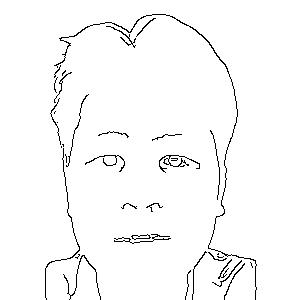
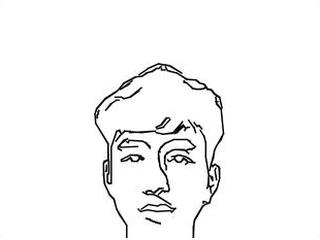
add consine, camera, add new reset

diff --git a/serialWithUI.py b/serialWithUI.py
@@ -14,7 +14,10 @@ from RobotGcodeGen import RobotGcodeGen
 from serial import threaded
 import queue
 import datetime
+import matplotlib.pyplot as plt
 import os
+import warnings
+from EvaluateResult import consine_similarity as validate, extract_frame
 
 ENCODING = 'utf-8'
 IMG_WIDTH = 640
@@ -217,7 +220,6 @@ class SerialCommunication(serial.threaded.LineReader):
         while time.time() - start < timeout:
             if self.stop_done:
                 return True
-            time.sleep(0.00001)
         return False
 
     def wait_for_receive_ok(self, timeout=2):
@@ -228,7 +230,6 @@ class SerialCommunication(serial.threaded.LineReader):
             with self.ok_lock:
                 if self.ok_received:
                     return True
-            time.sleep(0.00001)
         return False
 
     def get_done_count(self, max_count=36, timeout=1.0):
@@ -248,9 +249,11 @@ class SerialCommunication(serial.threaded.LineReader):
 def find_uart_port():
     ports = list_ports.comports()
     for port, desc, hwid in ports:
-        if "ttyACM" in port or "USB" in port or "ACM" in port or "COM" in port:
+        if "ttyACM" in port or "USB" in port or "ACM" in port:
+            # or "COM" in port:
             return port
     return None
+
 def send_uart_command(protocol, cmd, wait_ok=True, retries=3):
     for _ in range(retries):
         protocol.ok_received = False
@@ -268,8 +271,8 @@ def send_uart_command(protocol, cmd, wait_ok=True, retries=3):
 
 def reset_system(protocol):
     send_uart_command(protocol, "$X")
-    send_uart_command(protocol, "G28")
-    send_uart_command(protocol, "F2700")
+    send_uart_command(protocol, "F2000")
+    send_uart_command(protocol, "G1 X0 Y0 Z0 A0 B0")
     send_uart_command(protocol, "G92 X0 Y0 Z0 A0 B0")
     protocol.get_done_count()
 
@@ -338,6 +341,13 @@ def receive_gcode_response(protocol, total_cmds, shared_state, queue_lock, recei
 
 class App:
     def __init__(self, root):
+        self.gcode_lines = None
+        self.uart_log_box = None
+        self.manual_entry = None
+        self.gcode_entry = None
+        self.left_img_label = None
+        self.right_img_label = None
+        self.source_var = None
         self.root = root
         self.root.title("📟 G-code Control Panel")
         self.protocol = None
@@ -357,7 +367,7 @@ class App:
 
         self.build_gui()
         self.start_serial()
-        self.start_camera()
+        self.start_camera(1)
 
     def build_gui(self):
         img_frame = ttk.Frame(self.root)
@@ -371,7 +381,7 @@ class App:
 
         source_frame = ttk.Frame(self.root)
         source_frame.pack(pady=5)
-        self.source_var = tk.StringVar(value="in_camera")
+        self.source_var = tk.StringVar(value="ex_camera")
         ttk.Label(source_frame, text="Source:").pack(side="left")
         ttk.Radiobutton(source_frame, text="Camera Laptop", variable=self.source_var, value="in_camera", command=self.switch_source).pack(side="left")
         ttk.Radiobutton(source_frame, text="Camera ngoài", variable=self.source_var, value="ex_camera", command=self.switch_source).pack(side="left")
@@ -466,6 +476,39 @@ class App:
                 send_uart_command(self.protocol, "$X", False)
         threading.Thread(target=stop_thread, daemon=True).start()
 
+    def validate_result_window(self):
+            # if self.source_var == "ex_camera":
+            input_path = f"input_capture_excam/{global_var.index_capture_image}.jpg"
+            image_name = f"{global_var.index_capture_image}.jpg"
+            extract_frame.preprocessing(image_name)
+            original_image_path = f"Image2Gcode/output_image/{global_var.index_capture_image}_binary.jpg"
+            image_path = f"EvaluateResult/output_image/{global_var.index_capture_image}.jpg"
+            feature_similarity = validate.calculate_feature_similarity(original_image_path, image_path)
+            print(f"Feature-based similarity (Cosine similarity) with {image_path}: {feature_similarity}")
+            # Đọc ảnh để hiển thị
+            img_original = cv2.imread(original_image_path)
+            img_result = cv2.imread(image_path)
+
+            # Chuyển BGR -> RGB để hiển thị đúng màu với matplotlib
+            img_original = cv2.cvtColor(img_original, cv2.COLOR_BGR2RGB)
+            img_result = cv2.cvtColor(img_result, cv2.COLOR_BGR2RGB)
+
+            # Hiển thị ảnh và similarity
+            plt.figure(figsize=(10, 4))
+
+            plt.subplot(1, 2, 1)
+            plt.imshow(img_original)
+            plt.title("Original Binary Image")
+            plt.axis("off")
+
+            plt.subplot(1, 2, 2)
+            plt.imshow(img_result)
+            plt.title(f"Result Image\nSimilarity: {feature_similarity:.4f}")
+            plt.axis("off")
+
+            plt.tight_layout()
+            plt.show()
+
     def send_gcode_in_background(self):
         self.gcode_lines = read_gcode_file(self.gcode_file_path)
         total_cmds = len(self.gcode_lines)
@@ -508,10 +551,11 @@ class App:
         if self.cap:
             self.cap.release()
         self.cap = cv2.VideoCapture(camera_index)
-        if not self.cap.isOpened():
-            messagebox.showerror("Lỗi", "Không thể mở camera.")
-            self.cap = None
-            return
+        if self.cap.isOpened():
+            # Cấu hình camera để giảm lag
+            self.cap.set(cv2.CAP_PROP_FRAME_WIDTH, 640)
+            self.cap.set(cv2.CAP_PROP_FRAME_HEIGHT, 480)
+            self.cap.set(cv2.CAP_PROP_FPS, 30)
         threading.Thread(target=self.capture_loop, daemon=True).start()
 
     def capture_loop(self):
@@ -527,30 +571,30 @@ class App:
                     image_handle_name = os.path.splitext(global_var.image_name)[0]
                     self.show_mirror = False
                     img_after_processing = (Image.open(f"Image2Gcode/output_image/{image_handle_name}_binary.jpg")
-                           .resize((500, 500)))
+                           .resize((IMG_WIDTH, IMG_HEIGHT)))
                     self.root.after(0, lambda: self.display_image(self.right_img_label, img_after_processing))
                 elif self.show_mirror:
                     self.root.after(0, lambda: self.display_image(self.right_img_label, show_img))
                 elif self.is_simulate_image:
                     image_handle_simulate_name = os.path.splitext(global_var.image_name)[0]
                     image_simulate = (Image.open(f"Image2Gcode/simulate_image/{image_handle_simulate_name}.png")
-                                            .resize((500, 500)))
+                                            .resize((640, 480)))
                     self.root.after(0, lambda: self.display_image(self.right_img_label, image_simulate))
 
             time.sleep(0.0001)
 
     def switch_source(self):
-        if self.source_var.get() == "in_camera":
-            if self.cap:
-                self.cap.release()
-            elif self.cap is None:
-                self.start_camera(camera_index=0)
+        cv2.setLogLevel(0)
+        warnings.filterwarnings("ignore")
+        # Force release camera nếu tồn tại
+        if self.cap:
+            self.cap.release()
+
+        if self.source_var.get() == "ex_camera":
+            self.start_camera(camera_index=1)
             self.show_mirror = True
         else:
-            if self.cap:
-                self.cap.release()
-            elif self.cap is None:
-                self.start_camera(camera_index=1)
+            self.start_camera(camera_index=0)
             self.show_mirror = True
 
     def choose_image(self):
@@ -575,11 +619,6 @@ class App:
         global_var.is_capture = False
         self.is_simulate_image = False
         self.show_mirror = False
-    def validate_result_window(self):
-        self.is_simulate_image = True
-        global_var.is_finish_covert_image = False
-        self.show_mirror = False
-        print("Is pressed")
 
     def capture_frame(self):
         if self.last_frame is not None:
@@ -591,7 +630,10 @@ class App:
             global_var.image_name = ""
             global_var.image_name = f"{global_var.index_capture_image}.jpg"
             img = Image.fromarray(cv2.cvtColor(self.last_frame, cv2.COLOR_BGR2RGB)).resize((IMG_WIDTH, IMG_HEIGHT))
-            img.save(f"Image2Gcode/input_image/capture/{global_var.index_capture_image}.jpg")
+            if self.source_var == "in_camera":
+                img.save(f"Image2Gcode/input_image/capture/{global_var.index_capture_image}.jpg")
+            else:
+                img.save(f"EvaluateResult/input_capture_excam/{global_var.index_capture_image}.jpg")
             self.display_image(self.right_img_label, img)
             self.show_mirror = False
             self.is_simulate_image = False
@@ -641,8 +683,11 @@ class App:
         self.root.destroy()
 
 if __name__ == "__main__":
+    # cv2.utils.logging.setLogLevel(cv2.utils.logging.LOG_LEVEL_ERROR)
+    os.environ['TF_CPP_MIN_LOG_LEVEL'] = '3'  # 0 = all logs, 1 = filter INFO, 2 = filter WARNING, 3 = filter ERROR
+    os.environ['TF_ENABLE_ONEDNN_OPTS'] = '0'
     global_var.image_name = ""
-    global_var.index_capture_image = 0
+    global_var.index_capture_image = 1
     global_var.is_capture = False
     global_var.is_finish_covert_image = False
     global_var.is_choose_image = False

diff --git a/EvaluateResult/extract_frame.py b/EvaluateResult/extract_frame.py
@@ -1,0 +1,79 @@
+import glob
+import cv2
+import numpy as np
+from PIL import Image
+import os
+from EvaluateResult import helper_image
+
+# === Hàm resize giữ nguyên tỉ lệ, thêm padding trắng ===
+def resize_with_padding(image, target_size=(320, 240), fill_color=(255, 255, 255)):
+    original_ratio = image.width / image.height # Tính tỉ lệ gốc của ảnh
+    target_ratio = target_size[0] / target_size[1]  # Tỉ lệ mong muốn (320x240)
+
+    if original_ratio > target_ratio:
+        new_width = target_size[0] # Resize theo chiều ngang
+        new_height = round(new_width / original_ratio)
+    else:
+        new_height = target_size[1]
+        new_width = round(new_height * original_ratio)  # Resize theo chiều dọc
+
+    resized_image = image.resize((new_width, new_height), Image.Resampling.LANCZOS)
+    resized_image_cv = np.array(resized_image)[:, :, ::-1]  # Convert RGB (PIL) to BGR (OpenCV)
+    resized_image_cv_rgb = cv2.cvtColor(resized_image_cv, cv2.COLOR_BGR2RGB)
+    new_image = helper_image.filter_color(resized_image_cv_rgb) # lọc màu
+    # Chuyển lại PIL.Image sau khi xử lý
+    final_image = Image.fromarray(new_image)
+    return final_image
+
+def preprocessing(img_name):
+# # === Xử lý từng ảnh ===
+#     base_dir = os.path.dirname(os.path.abspath(__file__))
+#     img_path = os.path.join(base_dir,img_path)
+    base_dir = os.path.dirname(os.path.abspath(__file__))
+    full_path = os.path.join(base_dir, "input_capture_excam", img_name)
+
+    img = cv2.imread(full_path)
+    if img is None:
+        return None
+    # === Thư mục đầu ra ===
+    output_frame_dir = 'output_frame_w_image' # đầu ra cắt mỗi khung vẫn giữ lại viền
+    output_inside_dir = 'output_image' # đầu ra chỉ còn ảnh bên trong khung
+    os.makedirs(output_frame_dir, exist_ok=True)
+    os.makedirs(output_inside_dir, exist_ok=True)
+
+    gray = cv2.cvtColor(img, cv2.COLOR_BGR2GRAY)
+    _, thresh = cv2.threshold(gray, 200, 255, cv2.THRESH_BINARY_INV)  # Nhị phân hóa để dễ tìm khung
+    contours, _ = cv2.findContours(thresh, cv2.RETR_EXTERNAL, cv2.CHAIN_APPROX_SIMPLE)  # Tìm contour ngoài cùng
+
+    max_area = 0
+    frame_contour = None
+    for cnt in contours:
+        approx = cv2.approxPolyDP(cnt, 0.02 * cv2.arcLength(cnt, True), True)  # Làm mượt contour
+        area = cv2.contourArea(cnt)
+        if len(approx) == 4 and area > max_area:  # Chỉ chọn contour 4 góc có diện tích lớn nhất
+            max_area = area
+            frame_contour = approx
+
+    if frame_contour is not None:
+        x, y, w, h = cv2.boundingRect(frame_contour)  # Lấy tọa độ khung chữ nhật
+
+        # # === output_frame: CÓ KHUNG, không resize ===
+        # frame_crop = img[y:y + h, x:x + w]  # Cắt nguyên khung
+        frame_filename = img_name
+        # frame_path = os.path.join(output_frame_dir, frame_filename)
+        # cv2.imwrite(frame_path, frame_crop)
+
+        # === output_insideFrame: KHÔNG KHUNG, có resize giữ tỉ lệ ===
+        margin = 5  # loại bỏ viền khung
+        inner_crop = img[y + margin:y + h - margin, x + margin:x + w - margin]
+        pil_image = Image.fromarray(cv2.cvtColor(inner_crop, cv2.COLOR_BGR2RGB))  # Chuyển sang RGB
+        resized = resize_with_padding(pil_image, target_size=(320, 240))
+        resized = resized.convert("RGB")
+        inside_path = os.path.join(base_dir,output_inside_dir, frame_filename)
+        resized.save(inside_path, dpi=(300, 300))
+
+        print(f"✅ OK: {os.path.basename(full_path)} → xử lý thành công")
+        return None
+    else:
+        print(f"❌ Không tìm thấy khung trong ảnh: {os.path.basename(full_path)}")
+        return None

diff --git a/EvaluateResult/consine_similarity.py b/EvaluateResult/consine_similarity.py
@@ -1,0 +1,56 @@
+# # # Import necessary libraries
+import cv2
+import numpy as np
+from tensorflow.keras.applications.vgg16 import VGG16, preprocess_input
+from tensorflow.keras.preprocessing import image
+from tensorflow.keras.models import Model
+from scipy.spatial.distance import cosine
+# Function to extract features using VGG16 and calculate cosine similarity
+def calculate_feature_similarity(image_path1, image_path2):
+    # Load pre-trained VGG16 model
+    base_model = VGG16(weights='imagenet', include_top=False)
+    model = Model(inputs=base_model.input, outputs=base_model.get_layer('block5_pool').output)
+
+    # Function to preprocess image for VGG16
+    def preprocess_image(image_path):
+        img = image.load_img(image_path, target_size=(224, 224))  # Resize the image to 224x224 for VGG16
+        img_data = image.img_to_array(img)
+        img_data = np.expand_dims(img_data, axis=0)
+        img_data = preprocess_input(img_data)  # Preprocessing step for VGG16
+        return img_data
+
+    # Preprocess the two images
+    img1 = preprocess_image(image_path1)
+    img2 = preprocess_image(image_path2)
+
+    # Extract features using VGG16 model
+    features_img1 = model.predict(img1)
+    features_img2 = model.predict(img2)
+
+    # Flatten features and calculate cosine similarity
+    features_img1 = features_img1.flatten()
+    features_img2 = features_img2.flatten()
+    similarity = 1 - cosine(features_img1, features_img2)
+
+    return similarity
+
+
+# # Load the original image
+# original_image_path = 'C:\D\image2Gcode\output_insideFrame/1_gcode_100.nc.jpg'  # Replace with your original image path
+#
+# # List of images to compare with the original image (e.g., reduced detail images)
+# comparison_image_paths = [
+#     'C:\D\image2Gcode\output_insideFrame/1_gcode_25.nc.jpg',
+#     'C:\D\image2Gcode\output_insideFrame/1_gcode_50.nc.jpg',  # Replace with your image paths
+#     'C:\D\image2Gcode\output_insideFrame/1_gcode_72.nc.jpg',
+#     'C:\D\image2Gcode\output_insideFrame/1_gcode_75.nc.jpg',
+#     'C:\D\image2Gcode\output_insideFrame/1_gcode_100.nc.jpg',
+#     # Add more images here
+# ]
+#
+# # Compare feature-based similarity (Cosine similarity) for each image with the original image
+# for image_path in comparison_image_paths:
+#     # Calculate feature-based similarity using VGG16
+#     feature_similarity = calculate_feature_similarity(original_image_path, image_path)
+#     print(f"Feature-based similarity (Cosine similarity) with {image_path}: {feature_similarity}")
+#

diff --git a/EvaluateResult/helper_image.py b/EvaluateResult/helper_image.py
@@ -1,0 +1,16 @@
+import cv2
+import numpy as np
+from matplotlib import pyplot as plt
+
+# Load image in color
+def filter_color(image):
+    # Define black color range (BGR)
+    lower_black = np.array([0, 0, 0])
+    upper_black = np.array([50, 50, 50])  # Cho phép một chút gần đen
+
+    # Create mask: giữ pixel nằm trong vùng "đen"
+    mask_black = cv2.inRange(image, lower_black, upper_black) # pixel trong khoảng thành màu trắng, ngoài đen
+
+    # Invert to get binary: black stays black (0), others become white (255)
+    binary_image = cv2.bitwise_not(mask_black)
+    return binary_image

diff --git a/Image2Gcode/genGcode.py b/Image2Gcode/genGcode.py
@@ -204,7 +204,7 @@ def align_face(image, face):
                              flags=cv2.INTER_CUBIC, borderMode=cv2.BORDER_CONSTANT, borderValue=(255, 255, 255))
     return np.clip(aligned, 0, 255).astype(np.uint8)
 
-def resize_to_a4(image, target_width=300, target_height=300):
+def resize_to_a4(image, target_width=320, target_height=240):
     h, w = image.shape[:2]
     scale = min(target_width / w, target_height / h)
     new_w, new_h = int(w * scale), int(h * scale)

diff --git a/camera_index_list.py b/camera_index_list.py
@@ -1,0 +1,13 @@
+import cv2
+
+def list_available_cameras(max_index=10):
+    print("Available camera indexes:")
+    for index in range(max_index):
+        cap = cv2.VideoCapture(index)
+        if cap.read()[0]:
+            print(f"Camera found at index {index}")
+            cap.release()
+        else:
+            print(f"Index {index} not available")
+
+list_available_cameras()
